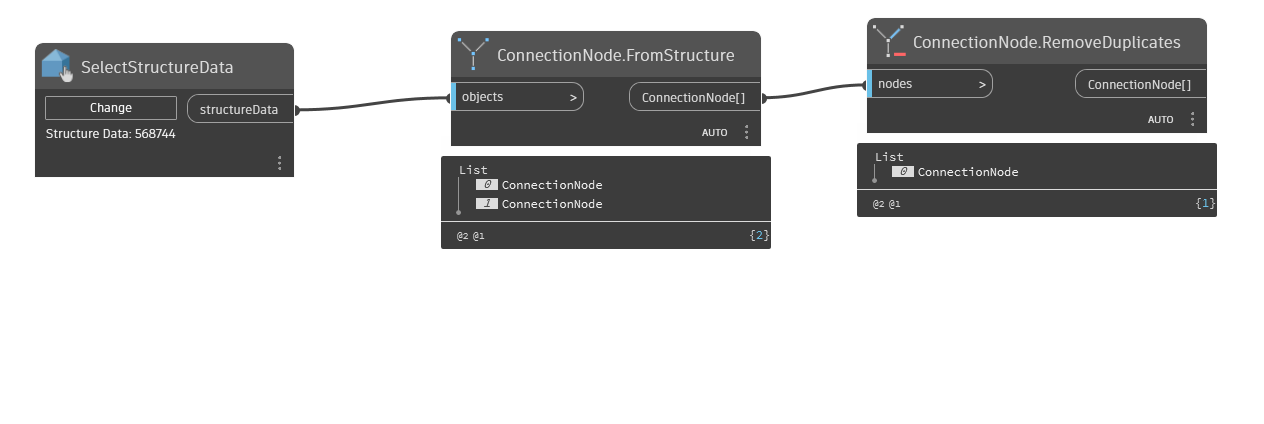
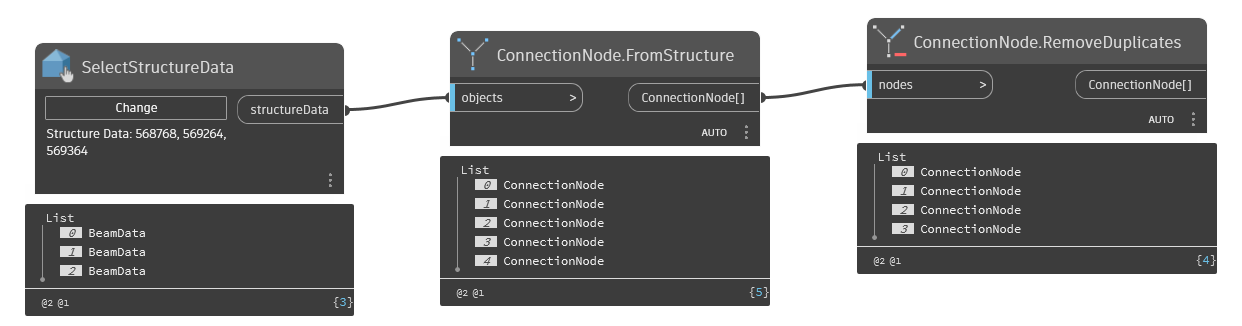
Update based on comments
added multi beam selection to the graph and changed example description.

diff --git a/doc/distrib/NodeHelpFiles/en-US/fallback_docs/AdvanceSteel.ConnectionAutomation.Nodes.ConnectionNode.RemoveDuplicates.md b/doc/distrib/NodeHelpFiles/en-US/fallback_docs/AdvanceSteel.ConnectionAutomation.Nodes.ConnectionNode.RemoveDuplicates.md
@@ -1,7 +1,7 @@
 ## In Depth
 This node finds all connection nodes that are permutations of one another { [beam1, beam2], [beam2, beam1] }, keeps only the first node { [beam1, beam2] } and removes null and empty items.
 
-In this example, a beam structure element has been selected to illustrate the default condition of two connection nodes that are permutations are reduced to one. 
+In this example, three beams that meet at a single intersection are selected to show the default behavior of each connection node and how the number of possible permutations is reduced.
 ___
 ## Example File
 
